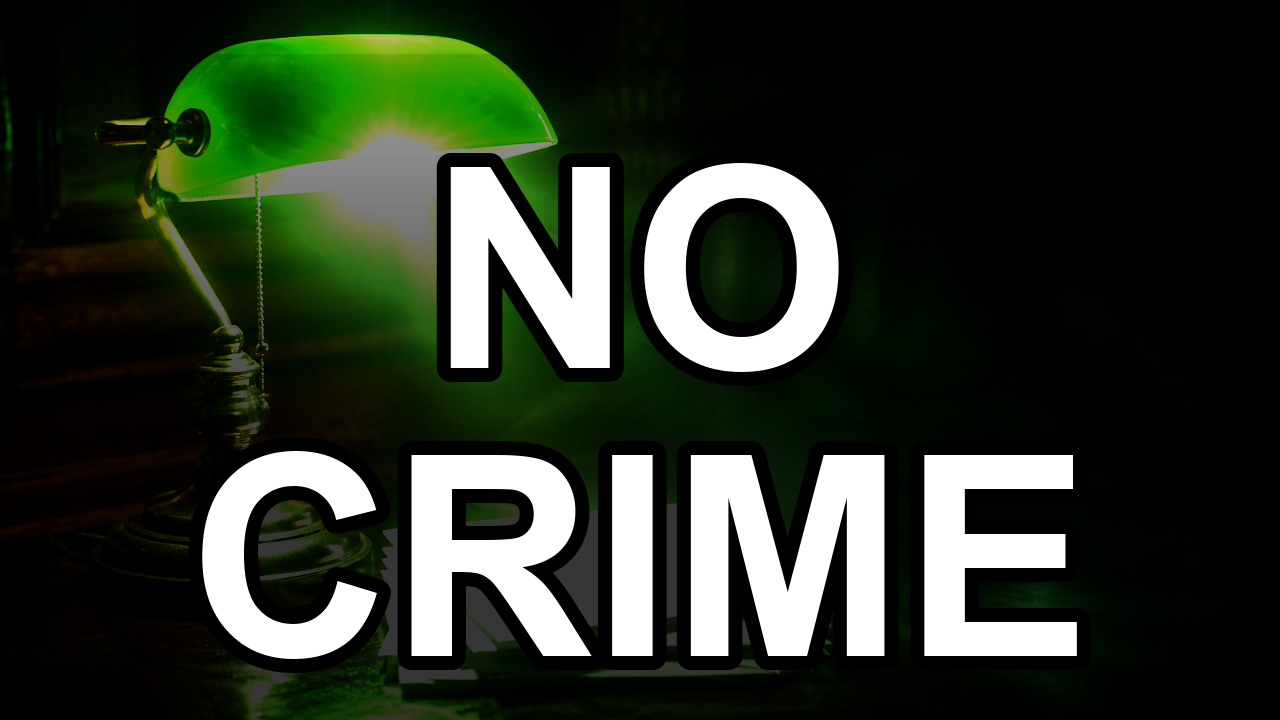
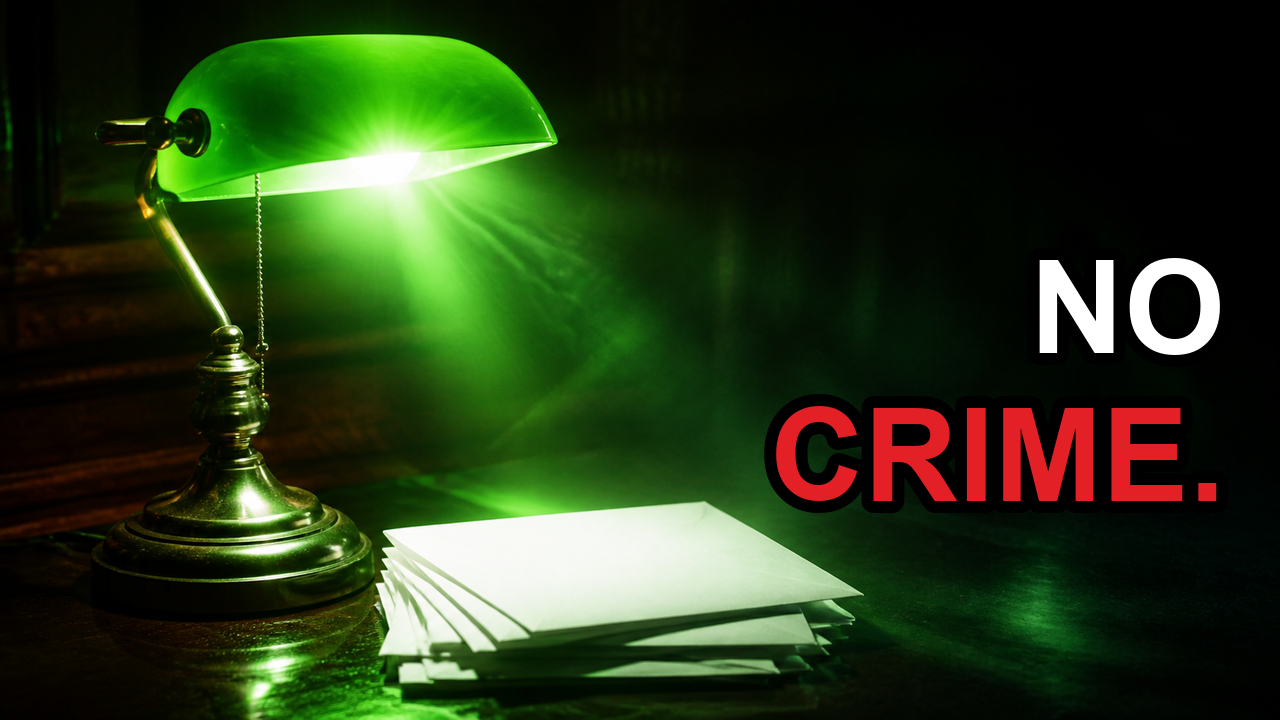
Thumbnails: winner-style layout, calibrated to the live 4.48% CTR thumbnail
The owner called the first composites weak, and they were: 215px centred type
over a scrim, burying the plates. Measured the actual live winner (Sz8zPUoBANM,
4.48% at 752 imp): stacked two-word block, ~94px caps, one red word, thick rim,
NO scrim, set in the plate's dark side. Added style:"winner" to
build_case_thumbnails_from_plates (default layout untouched; auto dark-side
placement; refuses lines wider than 48% of frame) and rebuilt all 21 candidates.
The check_thumb_subject_luma 150px text floor is an EP71 derivation the live
winner itself fails; winner rows print that expectation instead of a bare FAIL.

diff --git a/scripts/build_case_thumbnails_from_plates.py b/scripts/build_case_thumbnails_from_plates.py
@@ -205,6 +205,62 @@ def compose(plate: Path, headline: str, sub: str, band: str, out: Path) -> None:
     Image.alpha_composite(im.convert("RGBA"), layer).convert("RGB").save(out, quality=95)
 
 
+# ---------------------------------------------------------------------------------------------
+# style = "winner"
+#
+# Calibrated 2026-08-24 against the channel's best measured thumbnail, live on Sz8zPUoBANM
+# (lange/carsearch, 4.48% CTR at 752 impressions): two stacked words set LEFT in the plate's
+# dark side, cap height ~94 px (font ~130), one line in red, thick black rim, and NO scrim --
+# the plate stays fully visible. That is 40% smaller type than this file's default layout and
+# it is the layout that actually converted. The default (215 px, centred, scrimmed) stays for
+# episodes that want it; rows opt in with "style": "winner".
+#
+# The check_thumb_subject_luma 150 px text floor was derived from EP71's plates, not from a
+# win; the live winner's tallest component is ~94 px. Winner rows therefore print the gate
+# line for the record but a text_height failure against the 150 px floor is EXPECTED there.
+# ---------------------------------------------------------------------------------------------
+WINNER_FONT_PX = 130
+WINNER_RED = (226, 32, 38)
+
+
+def compose_winner(plate: Path, lines: list[str], accent_line: int, side: str, out: Path) -> None:
+    im = Image.open(plate).convert("RGB")
+    scale = max(W / im.width, H / im.height)
+    im = im.resize((round(im.width * scale), round(im.height * scale)), Image.LANCZOS)
+    im = im.crop(((im.width - W) // 2, (im.height - H) // 2,
+                  (im.width - W) // 2 + W, (im.height - H) // 2 + H))
+
+    font = load_font(WINNER_FONT_PX)
+    lines = [l.upper() for l in lines]
+    widths = [font.getbbox(l)[2] for l in lines]
+    if max(widths) > W * 0.48:
+        raise ValueError(f"winner-style line too wide for a side placement: {lines!r}")
+
+    if side == "auto":
+        g = im.convert("L")
+        band = g.crop((0, 200, W, 640))
+        left = band.crop((0, 0, int(W * 0.42), band.height))
+        right = band.crop((W - int(W * 0.42), 0, W, band.height))
+        from PIL import ImageStat
+        side = "left" if ImageStat.Stat(left).mean[0] <= ImageStat.Stat(right).mean[0] else "right"
+
+    lh = font.size + 18
+    total = lh * len(lines) - 18
+    top = int(H * 0.52) - total // 2
+    layer = Image.new("RGBA", (W, H), (0, 0, 0, 0))
+    d = ImageDraw.Draw(layer)
+    if accent_line < 0:
+        accent_line = len(lines) + accent_line
+    y = top
+    for idx, line in enumerate(lines):
+        w = font.getbbox(line)[2]
+        x = 55 if side == "left" else W - 55 - w
+        fill = WINNER_RED if idx == accent_line else (255, 255, 255)
+        d.text((x, y), line, font=font, fill=fill, stroke_width=12, stroke_fill=(0, 0, 0, 255))
+        y += lh
+    Image.alpha_composite(im.convert("RGBA"), layer).convert("RGB").save(out, quality=95)
+
+
 def main() -> int:
     try:
         sys.stdout.reconfigure(encoding="utf-8", errors="replace")
@@ -245,7 +301,11 @@ def main() -> int:
             return 2
         out = out_dir / f"thumbnail.{a.slug}.{i:02d}.v001.png"
         try:
-            compose(plate, row["headline"], row.get("sub", ""), row.get("band", "lower"), out)
+            if row.get("style") == "winner":
+                compose_winner(plate, row["lines"], row.get("accent_line", -1),
+                               row.get("side", "auto"), out)
+            else:
+                compose(plate, row["headline"], row.get("sub", ""), row.get("band", "lower"), out)
         except ValueError as exc:
             print(f"[thumbs] row {i} REFUSED: {exc}")
             return 2
@@ -257,7 +317,9 @@ def main() -> int:
                             str(out)], capture_output=True, text=True, encoding="utf-8")
         verdict = (r.stdout or r.stderr).strip().splitlines()
         line = next((l for l in verdict if "subject luma" in l or "PASS" in l or "FAIL" in l), "")
-        print(f"  {out.name}  [{row['plate']}]  {line.strip()}")
+        tag = "  (winner-style: text_height<150 vs the EP71 floor is EXPECTED; live winner is ~94px)" \
+            if row.get("style") == "winner" and "text" in line else ""
+        print(f"  {out.name}  [{row['plate']}]  {line.strip()}{tag}")
     print("[thumbs] NOTHING IS SELECTED. Look at them, then copy one to "
           f"{out_dir.name}/thumbnail.selected.v001.png")
     return 0
